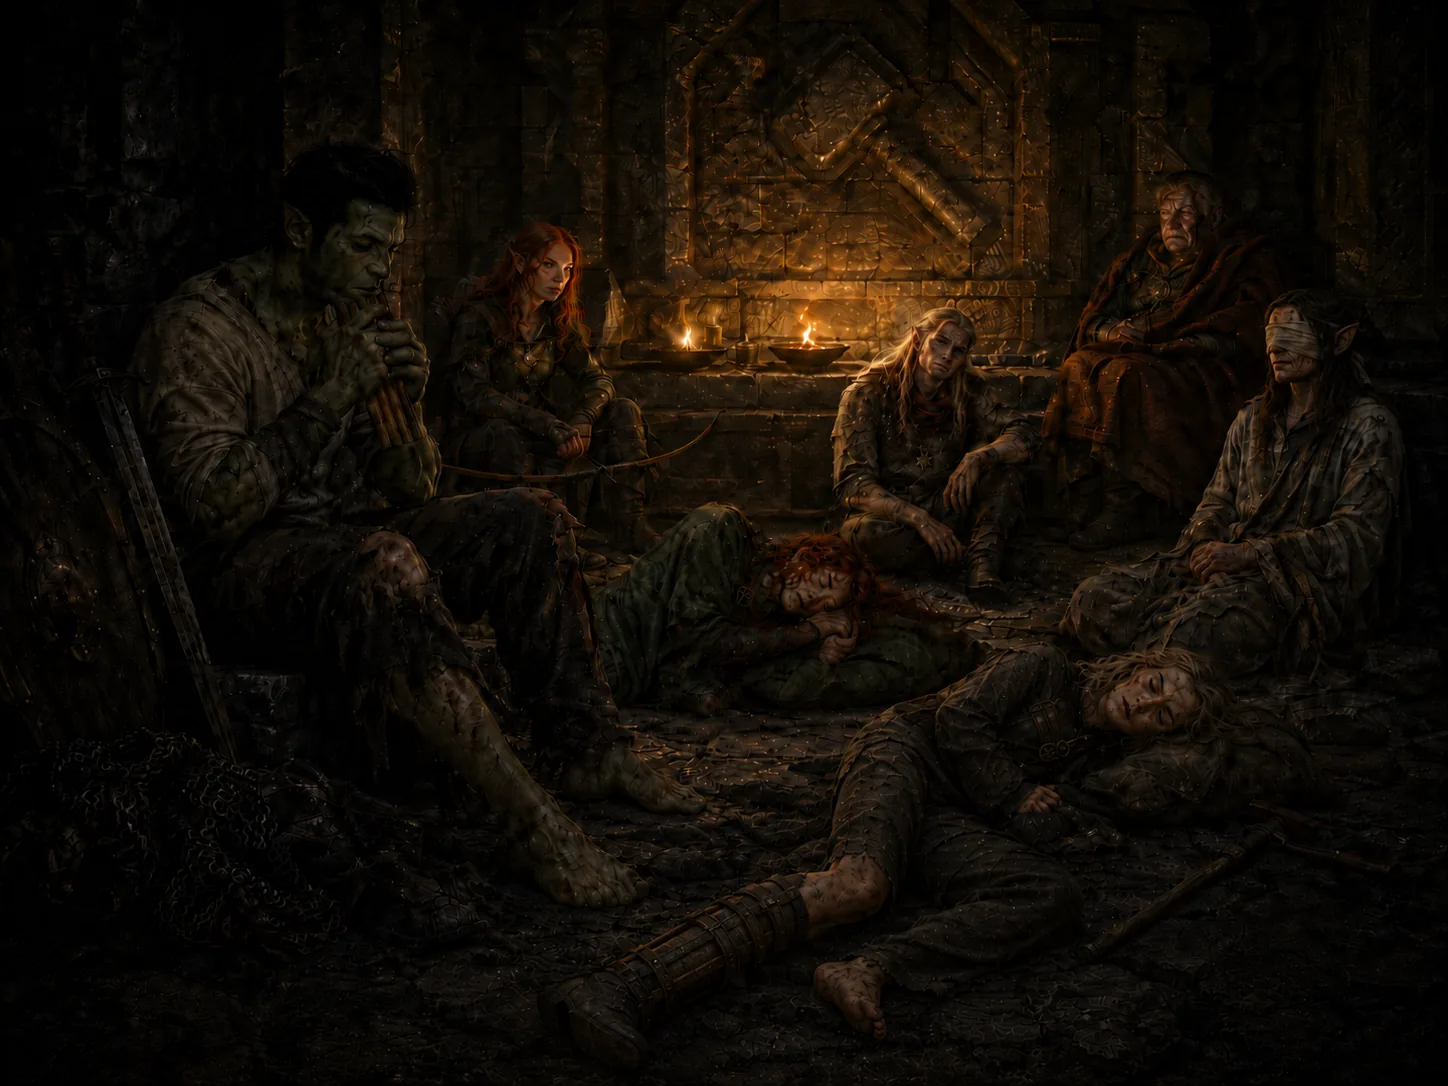
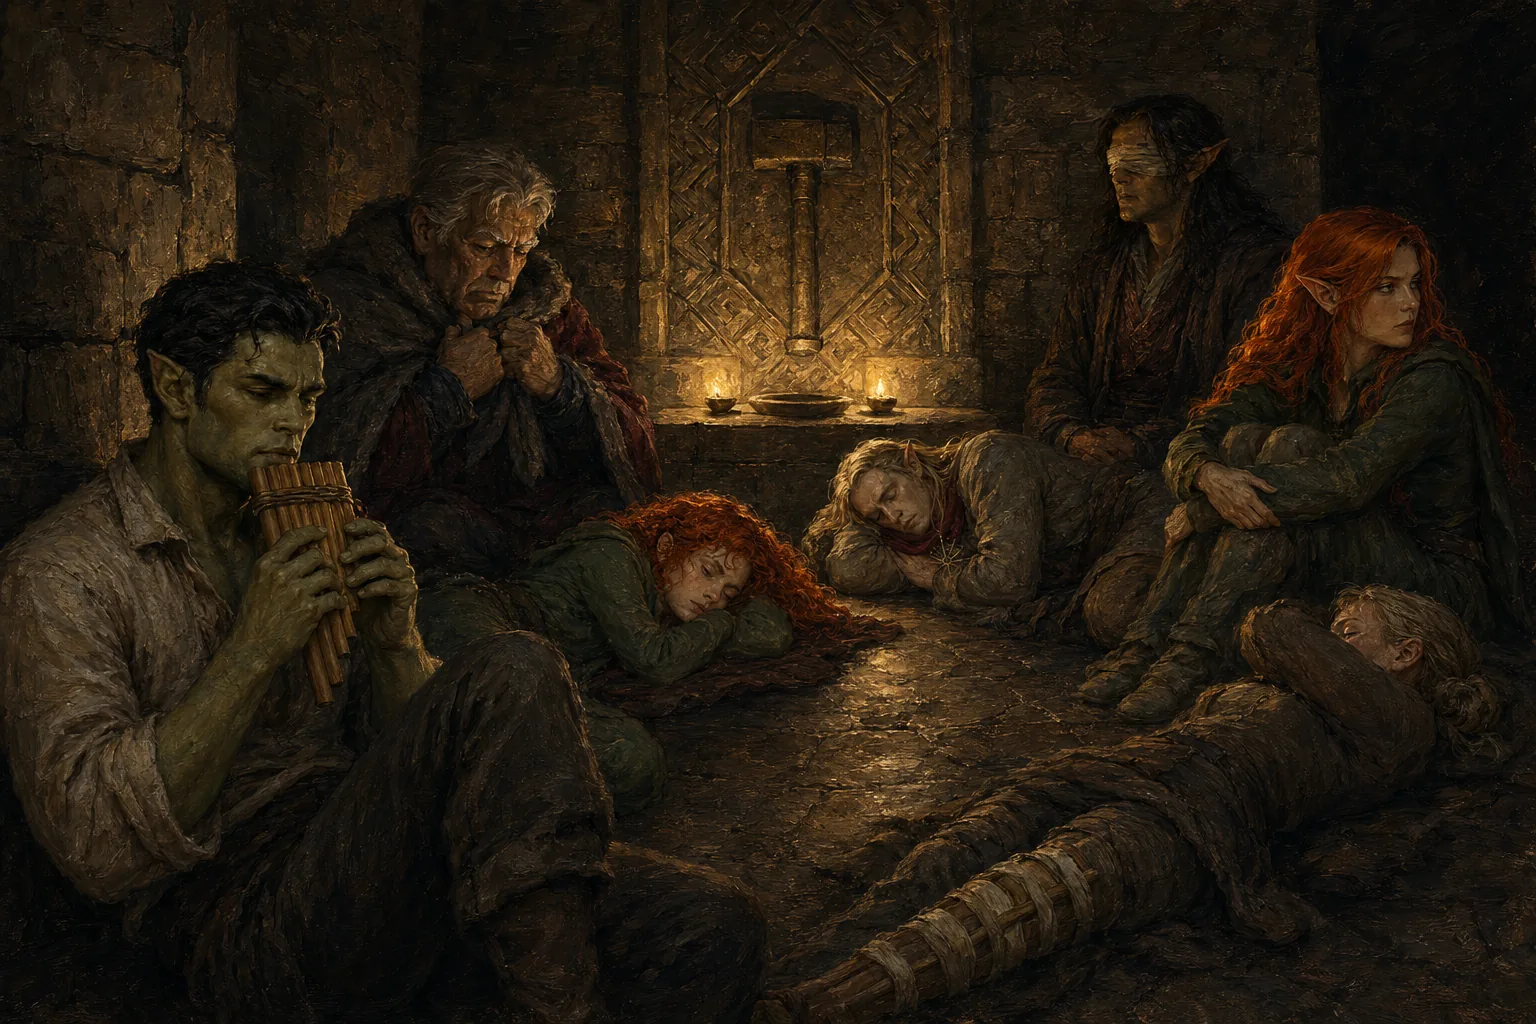
Reroll: a safe haven restored, in Book I
Replaces the original plate, which had been softened by repeated
in-place edits. Regenerated from scratch in the house style with all
seven canonical portraits attached.

Scene changes from the old plate: the company is bedded down, so no
armour and no weapons appear anywhere in the frame (Matt's direction),
and Horgus is turned three-quarters into the lamplight instead of
huddled at the frame edge -- at the edge the model ignored his
reference entirely and returned a generic old man.

Also adds a Shrine of Torag entry to the visual style guide, since the
room was illustrated with no locations note, and drops this image from
Anevia's "hair reads darker" note in CANON -- it no longer does.

diff --git a/characters/CANON.md b/characters/CANON.md
@@ -44,7 +44,7 @@ kit guide disagree, the kit guide wins.
 | **Irabeth Tirabade** | [`irabeth.webp`](irabeth.webp) | Allies & Powers | Half-orc woman, paladin of Iomedae and crusade commander; **green-grey skin**, short dark tousled hair, strong noble features, weathered and resolute with a commander's steady bearing. **Two small lower tusks jutting subtly upward — dignified and proud, NOT a brutish caricature** (a noble half-orc, in the same register as Harlock, only openly tusked). **Ears subtly pointed and tapered, like Harlock's — not round human ears.** **An old scar down her RIGHT cheek** — a fine pale line running from just below the outer corner of her right eye down across the cheek toward the jaw. *(Corrected Aug 2026 against a magnified crop of the portrait: this row said "left cheek" and the portrait plainly shows it on her right — i.e. on the VIEWER's left when she faces the camera. Say "her right cheek" in prompts, and check the render, because the model mirrors it freely.)* Battered, campaign-worn steel plate — dented, honest, fully covering — bearing **Iomedae's holy symbol at the chest and on both pauldrons: a vertical sword, point down, in front of a blazing sun.** *(The portrait shows a bare spiked sunburst with no sword; that is legacy drift from before the device was settled. Render the sword-and-sun in all new art — take her face from the portrait, her device from this row.)* Wife to **Anevia Tirabade**. |
 | **Kamilo Dann** | [`kamilo-dann.webp`](kamilo-dann.webp) | Allies & Powers | Human woman in her mid-thirties; sergeant of the crusader garrison at **Vilareth Ford**, and the ranking survivor who held a dozen prisoners together in a stone gaol. **A broad, strong, weathered face — plain-strong and handsome, never pretty, never young or unmarked.** Sun-darkened olive skin; heavy dark brows; **large dark brown eyes** with shadows beneath them; a broad nose; full lips; **freckles across the cheeks and nose**; and a **pale scar across the bridge of the nose onto the cheek**. **Auburn, reddish-brown hair** escaping her helm in loose strands at the temples, falling to the jaw. Small rounded human ears. **Kit:** a silver-white steel **open-faced helm with hinged cheek-guards** and a high crest above the brow bearing a **small stylised winged-bird device**, pale gold banding and fine engraved scrollwork; silver-white steel plate with pale gold edging and scroll ornament, a large rounded pauldron, **red cloth at the collar and a red streamer at the shoulder**. **Always battered, scratched, mud-streaked and flecked with dried blood — never gleaming parade armour.** **Bearing: exhausted, unbroken resolve** — jaw set, mouth a flat line, chin slightly lifted, gaze level and tired and unyielding. *(Portrait repainted into the house style from official source art; take the likeness and the helm design from it.)* |
 | **Areelu Vorlesh** | [`areelu-vorlesh.webp`](areelu-vorlesh.webp) | Adversaries | The witch who tore open the Worldwound; a human woman partway through becoming a succubus, and vain about it. **Striking and handsome, full-featured, a woman in her prime — NEVER gaunt, hollow-cheeked, emaciated, or skull-like.** Long black hair; olive-pale skin; **amber-yellow eyes that are no longer human**; two large dark horns sweeping up and back from the temples; **large dark membranous bat wings**; fingers tapering to dark claws. **Her default expression is cold, imperious, half-lidded contempt with the mouth closed** — the snarl belongs to the one scene, not to her. **Costume — NOT a likeness anchor, and the deliberate exception to the "cover her up" rule below.** Areelu changes outfit from scene to scene as a matter of vanity and theatre; her wardrobe is characterization, not continuity. **Do not carry a previous image's costume forward, and do not treat a mismatch between two pictures as drift** — dress her fresh each time, extravagantly, within the register: deliberately provocative, flaunting what she is becoming; blackened leather, dull steel and fine chains; bare shoulders, arms and midriff; muted and earthy, no bright colour or gemstones. **Clothed, and never explicit.** The portrait shows one such outfit — a harness of thin leather straps crossing the collarbones, ribs and midriff, joined by steel rings and hung with chains, small shaped leather panels at the chest, leather banding down the forearms, a dark band at the throat — and Book I Ch. XI shows her in a long dark gown instead. Both are correct. *Scene note: in Book I, Ch. XI she appears only as a **semi-transparent projection** flung across the planes — that transparency is the scene's, not hers; she is solid everywhere else.* |
-| **Anevia Tirabade** | [`anevia.webp`](anevia.webp) | Allies & Powers | Human woman in her mid-thirties; crusade scout and tracker, and **Irabeth's** wife. **Dirty blonde hair — dull, ashy, sandy; NOT bright gold, NOT platinum, NOT brown or red.** **She wears it gathered in a practical low knot at the nape** in the field and on duty — *the exception is at home and off duty, where she wears it down* (see her appearance in [`../images/the-weight-of-a-legend.webp`](../images/the-weight-of-a-legend.webp)). Fair skin weathered by years outdoors, sun-lines at the eyes; **small rounded human ears — NOT pointed.** A lean, plain-strong, unglamorous face with **pale grey-blue eyes** and freckles across the nose and cheekbones — handsome the way a working person is handsome, never a beauty portrait. *****Early Book I only:*** *her **LEFT** leg is the one broken under the stone at Kenabres — splinted and bound, later walked on with a crutch. This applies to the Kenabres chapters and nowhere else: **the leg heals**, and from there on she is sound. Do not render her splinted, limping, or favouring a leg anywhere later in the campaign.* **A scout, never a soldier: practical brown travel leathers over plain wool, fully covered, modest, worn and mended, with a longbow and a quiver of arrows.** NO plate armour, NO mail, NO heraldry, NO holy symbol** — the visual opposite of her wife, who is the one in battered plate. *Her hair reads darker in the early Book I art (`the-freeing-of-anevia`, `a-safe-haven-restored`) — that is **soot, dust and low light**, not a different colour, and those images are correct as they stand.* |
+| **Anevia Tirabade** | [`anevia.webp`](anevia.webp) | Allies & Powers | Human woman in her mid-thirties; crusade scout and tracker, and **Irabeth's** wife. **Dirty blonde hair — dull, ashy, sandy; NOT bright gold, NOT platinum, NOT brown or red.** **She wears it gathered in a practical low knot at the nape** in the field and on duty — *the exception is at home and off duty, where she wears it down* (see her appearance in [`../images/the-weight-of-a-legend.webp`](../images/the-weight-of-a-legend.webp)). Fair skin weathered by years outdoors, sun-lines at the eyes; **small rounded human ears — NOT pointed.** A lean, plain-strong, unglamorous face with **pale grey-blue eyes** and freckles across the nose and cheekbones — handsome the way a working person is handsome, never a beauty portrait. *****Early Book I only:*** *her **LEFT** leg is the one broken under the stone at Kenabres — splinted and bound, later walked on with a crutch. This applies to the Kenabres chapters and nowhere else: **the leg heals**, and from there on she is sound. Do not render her splinted, limping, or favouring a leg anywhere later in the campaign.* **A scout, never a soldier: practical brown travel leathers over plain wool, fully covered, modest, worn and mended, with a longbow and a quiver of arrows.** NO plate armour, NO mail, NO heraldry, NO holy symbol** — the visual opposite of her wife, who is the one in battered plate. *Her hair reads darker in `the-freeing-of-anevia` — that is **soot, dust and low light**, not a different colour, and that image is correct as it stands.* |
 | **Joran Vhane** | [`joran-vhane.webp`](joran-vhane.webp) | Adversaries | Dwarf man, middle years; master smith and armorer, brother of **Staunton Vhane**, and the hostage who became the Corruption Forge's armorer under a whip. **He must read unmistakably as a DWARF, never as a short human** — short and immensely broad, thick barrel torso, short thick neck, a large broad heavy skull, a pronounced heavy brow ridge, a wide blunt flattened nose, and **big, disproportionately large, broad hands** with thick knuckles and short blunt fingers. **A LONG, FULL, THICK beard** falling well down over his chest, iron-grey shot through with dark brown, with **two or three thick plaited braids clasped with plain dark hammered IRON rings** — a smith's own work, **never gold, gems, or filigree**. Long moustaches merging into the beard. It is a **working** beard, not a groomed ceremonial one: soot-dulled, its loose edges **singed ragged and uneven** where sparks have burned it off short. **His trade is written on his body, and this is the heart of the likeness: old BURN SCARS** — shiny, mottled, healed-over — running from the knuckles over the backs of the hands and up the forearms, layered from decades at a forge; cracked nails; **soot worked permanently into every crease of the hands and the lines of the face.** **Bearing — worn down, NOT brutal, and the distinction is the character.** Deep-set **hollow eyes** with heavy shadows beneath, sunk under that brow; weathered, deeply lined skin; **his gaze turned down and away, never meeting the viewer's**; mouth closed with the corners pulled down, tired and resigned. Shoulders rolled forward and hunched, head carried low, so that all that dwarven strength reads as something folded in on itself — **a big man made small.** He is ashamed and it shows: a decent man who was not brave enough at the moment it counted, and who knows it exactly. **Never a snarling or sneering villain, never menacing, never proud or heroic.** **Identity only — the portrait is deliberately gearless** (a plain dark rough-woven work tunic, sleeves pushed above the elbows to bare the scarred forearms; **no armor, no helmet, no weapon, no tools, no heraldry**). **His holy symbol is deliberately absent and his throat is bare**, because his faith is contested across his arc — **Torag**, then **Droskar** under his brother's influence, then **Torag** again — and no one device is true for all of it; take the device, if a scene needs one, from that scene. For his gear at a given point see [`../bible/05-kit-and-timeline.md`](../bible/05-kit-and-timeline.md) — at Drezen he wears the blackened, serrated, weeping plate his own forge corrupted. |
 | **Staunton Vhane** | [`staunton-vhane.webp`](staunton-vhane.webp) | Adversaries | Fallen dwarf, mythic anti-paladin, traitor-commander of Citadel Drezen; brother of **Joran Vhane**. **His face is never seen and that is the likeness** — he is sealed head to foot in blackened, spiked full plate, and the great enclosing helm has no open visor: only a narrow dark eye-slit with **two points of cold violet light burning behind it.** Do not render an exposed dwarf face, a bare head, or a beard on show. **Dwarf proportions read through the armor:** short, immensely broad, low and heavy, a wide slab of a torso on short thick legs — squat and wide, never a tall human knight in plate. **The armor is the Corruption Forge's work and it is hostile to look at:** dull blackened iron with a wet oil-slick sheen, layered overlapping plates, and **spikes everywhere** — a crown of long spikes on the helm, clustered spikes on both pauldrons, ridged spikes down the vambraces, greaves and knees. Pitted and scarred, faintly weeping at the seams. A **ragged, torn oxblood-red cloak or tabard** hangs in strips at his back and side, filthy and blackened at the edges. **No heraldry, no holy symbol, no gold, no gems, no filigree** — nothing on him is ornamental. **Bearing — he is the opposite of his brother:** where Joran is folded in on himself, Staunton is low, forward and driving, shoulders squared, planted wide, always coming *at* something. **His weapon is *Soul Shear*** (see [`../bible/03-lore-and-locations.md`](../bible/03-lore-and-locations.md#artifacts--relics)) and he is essentially never without it. Established look: [`../images/last-charge-of-staunton-vhane.webp`](../images/last-charge-of-staunton-vhane.webp). *Avoid:* an open or visored face, a visible beard, a bare head, a tall or slender build, a human knight, polished or silvered plate, gold trim, heraldry, a holy symbol, glowing red eyes (his light is **violet**). |
 | **Eustoyriax** | [`eustoyriax.webp`](eustoyriax.webp) | Adversaries | A mythic shadow demon of the **Ivory Sanctum**, set to guard the ***Sword of Valor*** in the dungeon dark beneath Drezen. **He has NO physical body and that is the whole likeness — he is PURE SHADOW, and he must read as DARKER THAN THE DARKNESS BEHIND HIM.** *(He wore the crusader **Maranse** as a host body when he first came to Drezen; he gave that corpse away as a gift and has moved as pure shadow ever since. **Never render him as a possessed man, a body, or a face.**)* **Form:** broadly humanoid — head, shoulders, torso, long attenuated arms ending in long thin claws — with **two great ragged wings** sweeping up and outward, and a **crown of many curving horns** swept up and back off the skull. **Substance:** his whole body is built of **curling, flame-like tendrils of darkness**, thickest at the core and fraying at every edge into drifting vapour; **no skin, no scales, no fur, no feathers, no musculature, no glossy or wet surface, nothing that could catch a highlight.** He is never a flat hard-edged silhouette — he has real volume, read entirely by the way light fails on him. **Face:** barely resolved out of the smoke, and only **two small pale colourless points** where eyes would be — dim, no glow, no beams. **NEVER red, and NEVER violet — the violet belongs to [Staunton Vhane](staunton-vhane.webp) and the two must not rhyme.** **Lighting is SUBTRACTIVE and this is how he is drawn:** put a cold pale light behind or beside him and let it **die as it reaches him**, so he reads as a hole punched in the light; drifting dust and haze lean and stream *toward* him. **Bearing:** unhurried, patient, privately entertained — he asked for this posting and told **Aponavisius** he wished to be there to greet the crusaders when they finally came. Loose-shouldered, tilted, looking down at what he does not rate. **Never snarling, never lunging, never afraid.** *Avoid:* a solid body, a man in a cloak or robe, a hooded figure, a grim reaper, a skull or skeletal face, a readable face, glowing or red or violet eyes, fire, armour, weapons, chains, a flat black silhouette. |

diff --git a/bible/04-visual-style-guide.md b/bible/04-visual-style-guide.md
@@ -410,6 +410,18 @@ the surface`.
 *(Keep every blood word out of BOTH halves of the prompt — describe the straps as old, dark and much-used leather
 and say nothing more. Naming it as an exclusion is what counts it as content.)*
 
+The **SHRINE OF TORAG** in the warrens beneath **Kenabres**, cleansed and reconsecrated by the company
+([`a-safe-haven-restored`](../images/a-safe-haven-restored.webp), Book I): a small, low, windowless
+dwarven shrine of heavy squared warm grey-brown masonry, ancient and dusty, its stone flag floor swept
+clean in a rough circle where the company camps. The far wall carries a tall arched niche of **deep-cut
+interlocking geometric dwarven relief**, and at the centre of it, carved in flat relief, **THE HAMMER OF
+TORAG — a plain broad blacksmith's hammer, head and haft, and no other symbol.** Below it a low plain
+stone altar with a **shallow round stone basin of still water** (the holy water Varic fills his vials
+from). Light it with **two small clay oil lamps on the altar step and nothing else** — the gold rakes up
+the carved relief and everything past its reach falls to brown-black. **It is cleansed, sound and quietly
+safe, not a wreck** — the whole point of the place is that it is the first shelter the company has had.
+*Avoid:* `a ruined rubble-strewn room, a collapsed ceiling, a second light source, daylight`.
+
 Locations with an established look so far: **Rabiah's Secure Shelter** (above), the **Molten Scar** (above),
 the **Corruption Forge**
 ([`the-cage-over-the-forge`](../images/the-cage-over-the-forge.webp), and
